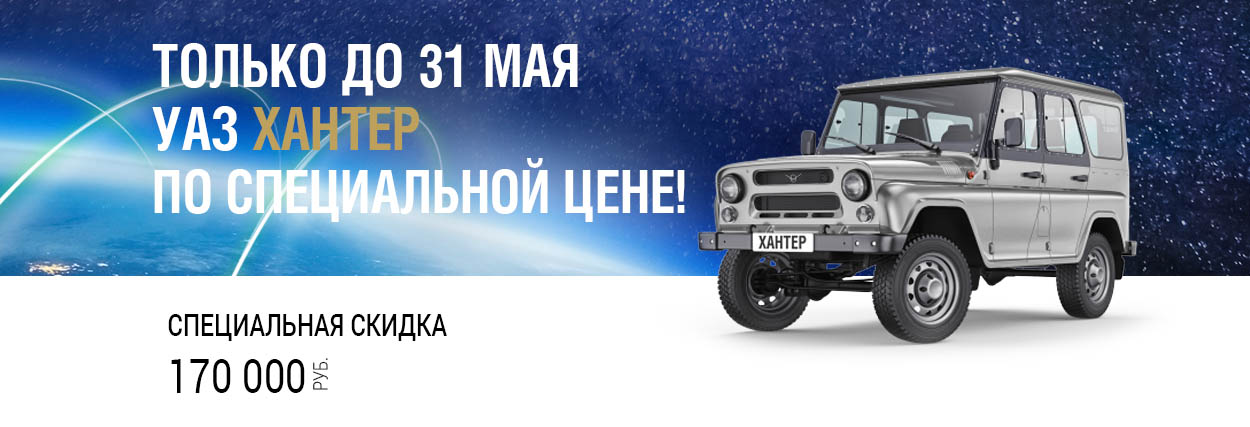
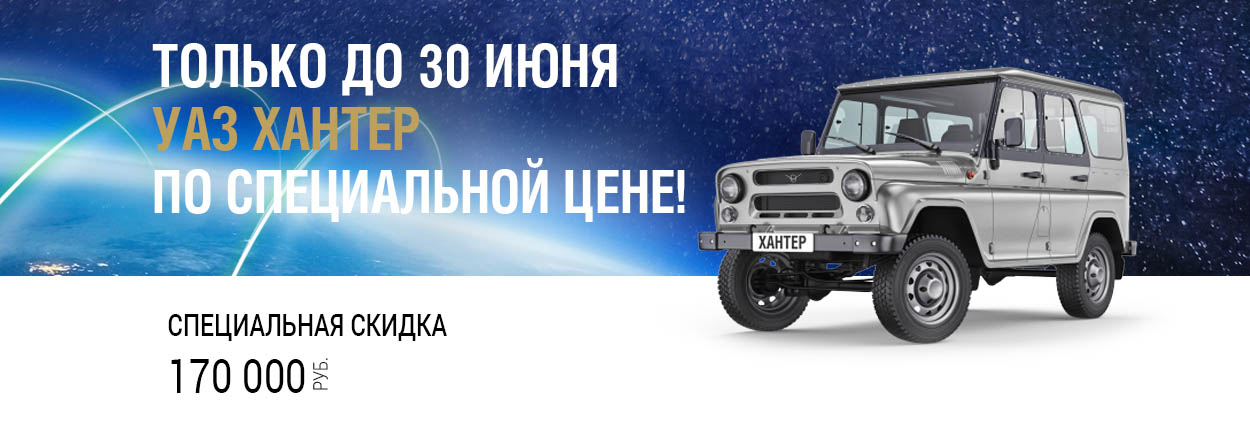
change date
30 june

Changed region(s): [[0.3432, 0.0913, 0.4992, 0.2131], [0.1248, 0.2436, 0.1872, 0.3653]]

diff --git a/cargo.html b/cargo.html
@@ -70,12 +70,12 @@
                 </div>
                 <h1>Скидка 250 000 рублей!</h1>
 
-                <p>Только до <strong>31 мая 2016 года</strong> при покупке УАЗ Карго в автосалонах Торгмаш вы можете получить скидку <strong>250 000 рублей!</strong>
+                <p>Только до <strong>30 июня 2016 года</strong> при покупке УАЗ Карго в автосалонах Торгмаш вы можете получить скидку <strong>250 000 рублей!</strong>
                 </p>
                 <p>Скидка <strong>80 000 рублей</strong> за год выпуска</p>
                 <p>Скидка <strong>50 000 рублей</strong> по программе "УАЗ-кредит"</p>
                 <p>Скидка <strong>120 000 рублей</strong> по спецпрограмме утилизация/трейд-ин.</p>
-                <p><i>*Срок действия программы — с 23 ноября до 31 мая 2016 года.</i>
+                <p><i>*Срок действия программы — с 23 ноября до 30 июня 2016 года.</i>
                 </p>
                 <hr>
 

diff --git a/pickup.html b/pickup.html
@@ -70,12 +70,12 @@
             </div>
             <h1>Скидка 270 000 рублей!</h1>
 
-            <p>Только до <strong>31 мая 2016 года.</strong> при покупке УАЗ ПИКАП в автосалонах Торгмаш вы можете получить скидку <strong>270 000 рублей!</strong>
+            <p>Только до <strong>30 июня 2016 года.</strong> при покупке УАЗ ПИКАП в автосалонах Торгмаш вы можете получить скидку <strong>270 000 рублей!</strong>
             </p>
             <p>Скидка <strong>100 000 рублей</strong> за год выпуска.</p>
             <p>Скидка <strong>50 000 рублей</strong> по программе "УАЗ-кредит"</p>
             <p>Скидка <strong>120 000 рублей</strong> по спецпрограмме утилизация/трейд-ин.</p>
-            <p><i>*Срок действия программы — с 23 ноября до 31 мая 2016 года.</i>
+            <p><i>*Срок действия программы — с 23 ноября до 30 июня 2016 года.</i>
             </p>
             <hr>
 

diff --git a/commerce.html b/commerce.html
@@ -70,11 +70,11 @@
                 </div>
                 <h1>Скидка 185 000 рублей!</h1>
 
-                <p>Только до <strong>31 мая 2016 года.</strong> при покупке УАЗ Коммерческий в автосалонах Торгмаш вы можете получить скидку <strong>185 000 рублей!</strong>
+                <p>Только до <strong>30 июня 2016 года.</strong> при покупке УАЗ Коммерческий в автосалонах Торгмаш вы можете получить скидку <strong>185 000 рублей!</strong>
                 </p>
                 <p>Скидка <strong>50 000 рублей</strong> по программе "УАЗ-кредит"</p>
                 <p>Скидка <strong>135 000 рублей</strong> по спецпрограмме утилизация/трейд-ин.</p>
-                <p><i>*Срок действия программы — с 23 ноября до 31 мая 2016 года.</i>
+                <p><i>*Срок действия программы — с 23 ноября до 30 июня 2016 года.</i>
                 </p>
                 <hr>
 

diff --git a/patriot.html b/patriot.html
@@ -70,12 +70,12 @@
       </div>
       <h1>Скидка 220 000 рублей!</h1>
 
-      <p>Только до <strong>31 мая 2016 года.</strong> при покупке УАЗ ПАТРИОТ в автосалонах Торгмаш вы можете получить скидку <strong>220 000 рублей!</strong>
+      <p>Только до <strong>30 июня 2016 года.</strong> при покупке УАЗ ПАТРИОТ в автосалонах Торгмаш вы можете получить скидку <strong>220 000 рублей!</strong>
       </p>
       <p>Скидка <strong>80 000 рублей</strong> за год выпуска.</p>
       <p>Скидка <strong>50 000 рублей</strong> по программе "УАЗ-кредит".</p>
       <p>Скидка <strong>90 000 рублей</strong> по спецпрограмме утилизация/трейд-ин.</p>
-      <p><i>*Срок действия программы — с 23 ноября до 31 мая 2016 года.</i>
+      <p><i>*Срок действия программы — с 23 ноября до 30 июня 2016 года.</i>
       </p>
       <hr>
 

diff --git a/hunter.html b/hunter.html
@@ -70,11 +70,11 @@
             </div>
             <h1>Скидка 170 000 рублей!</h1>
 
-            <p>Только до <strong>31 мая 2016 года.</strong> при покупке УАЗ ХАНТЕР в автосалонах Торгмаш вы можете получить скидку <strong>170 000 рублей!</strong>
+            <p>Только до <strong>30 июня 2016 года.</strong> при покупке УАЗ ХАНТЕР в автосалонах Торгмаш вы можете получить скидку <strong>170 000 рублей!</strong>
             </p>
             <p>Скидка <strong>50 000 рублей</strong> по программе "УАЗ-кредит"</p>
             <p>Скидка <strong>120 000 рублей</strong> по спецпрограмме утилизация/трейд-ин.</p>
-            <p><i>*Срок действия программы — с 23 ноября до 31 мая 2016 года.</i>
+            <p><i>*Срок действия программы — с 23 ноября до 30 июня 2016 года.</i>
             </p>
             <hr>
 
